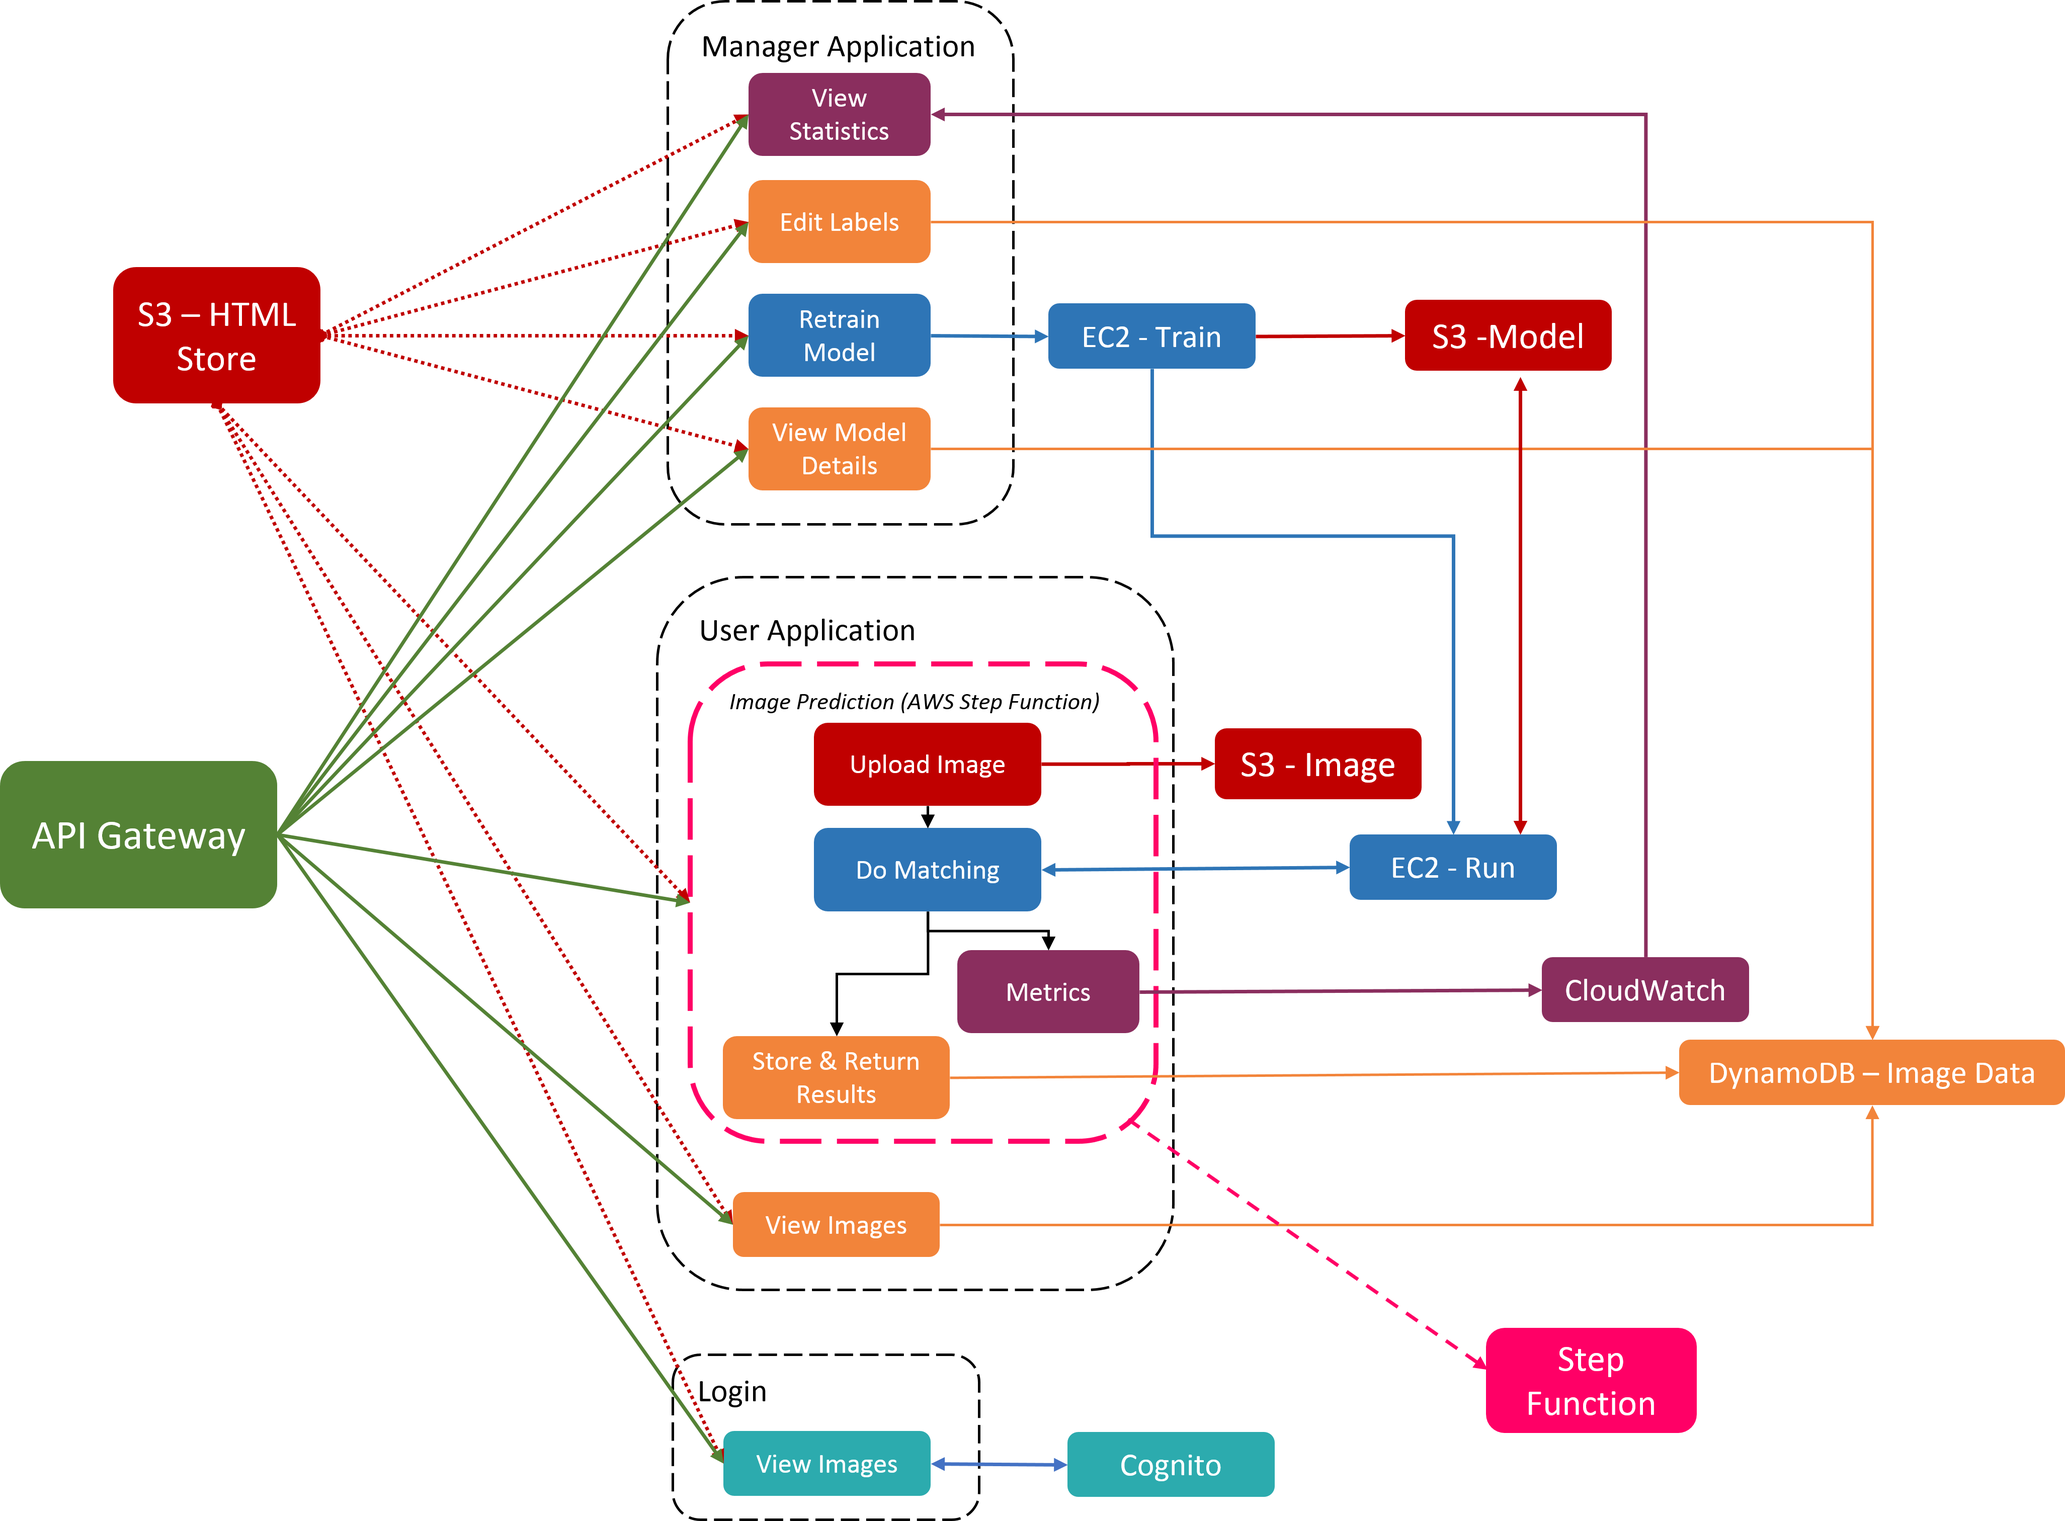
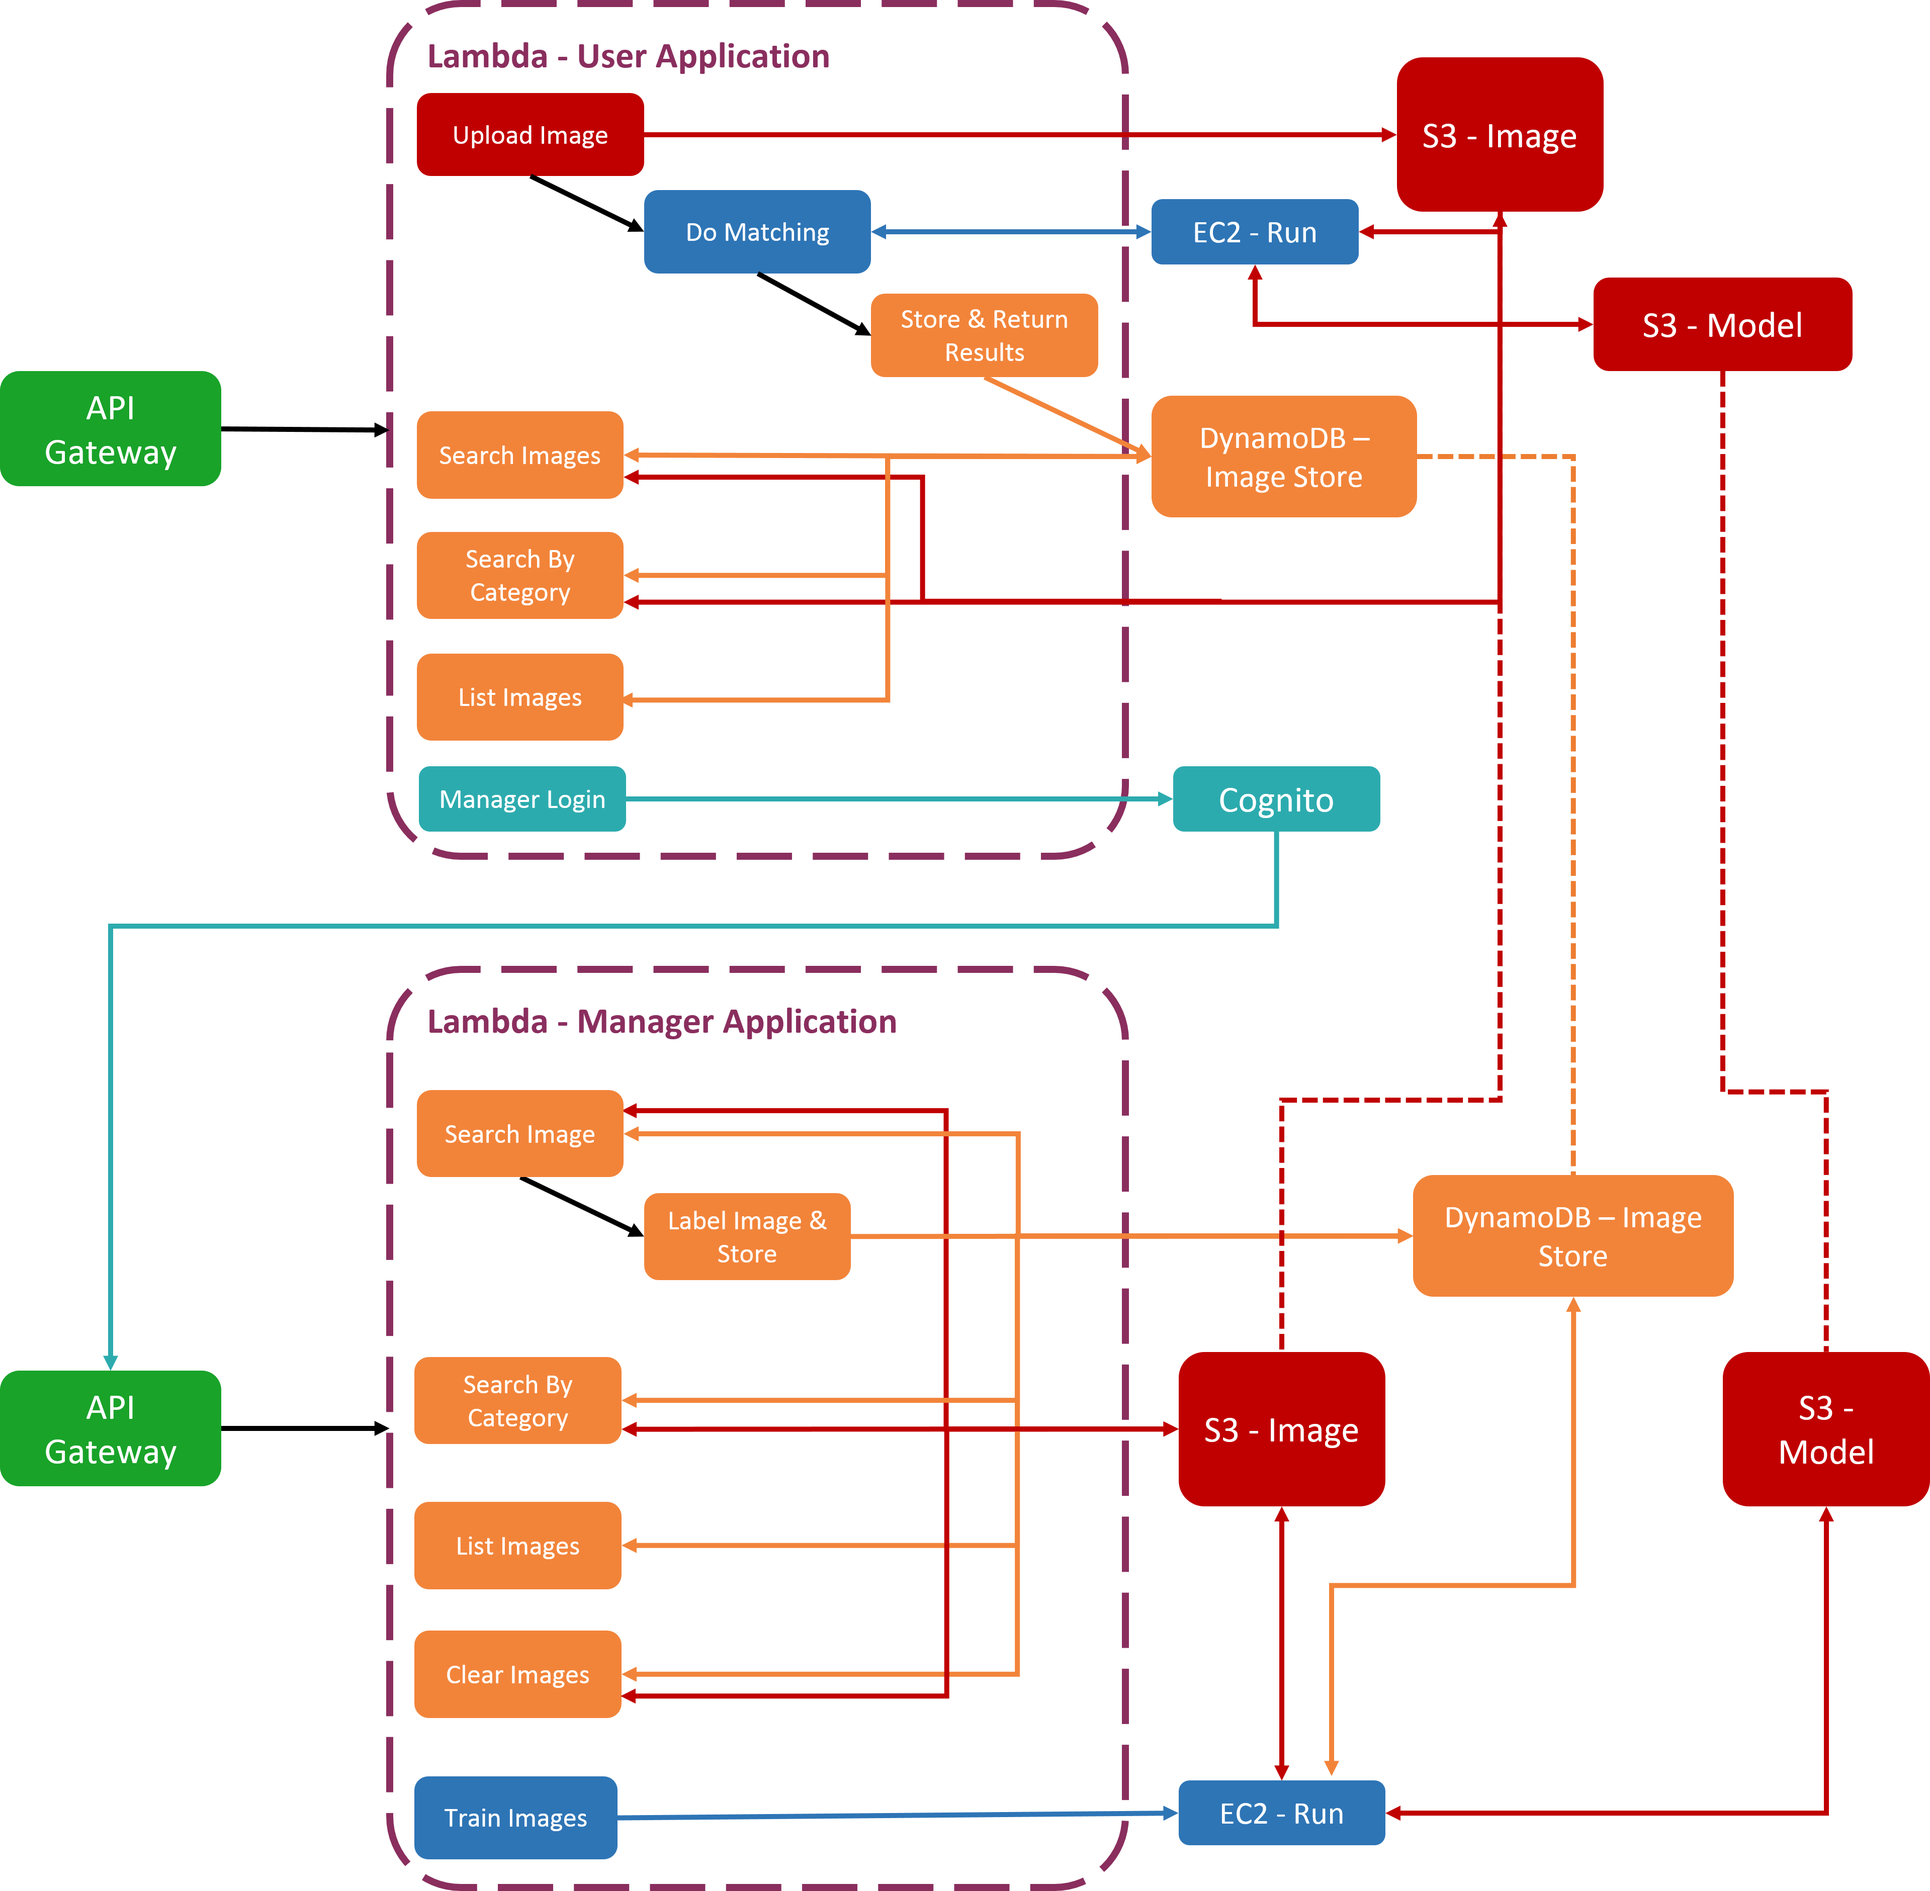
Josh dev (#5)
* search-page

* add category search

* connect EC2

* Update utils.py

* cleanup

* css

* login change

* adding ec2

* cleanup

diff --git a/frontend/templates/list_images.html b/frontend/templates/list_images.html
@@ -11,7 +11,7 @@
         {% if image_list is defined %}
 	        <table>
             <caption><h1>List of Images Stored</h1></caption>
-            <tr><th>Index</th><th>Image Id</th><th>Predicted Label</th><th>Actual Label</th></tr>
+            <tr><th>Image Id</th><th>Index</th><th>Predicted Label</th><th>Actual Label</th></tr>
 	        {% for image in image_list %}
                 <tr>
                     <td style="font-weight:600">{{ image['key'] }}</td>

diff --git a/frontend/utils.py b/frontend/utils.py
@@ -122,7 +122,9 @@ def read_all():
 
 def get_ec2_ip():
     global EC2_RUN_ID
+    
     response = ec2.describe_instances(InstanceIds=[EC2_RUN_ID], DryRun=False)
+    print(response)
     inst_name = response['Reservations'][0]['Instances'][0]['State']['Name']
     ec2_ip = None       
     if (inst_name == 'running'):

diff --git a/frontend/routes.py b/frontend/routes.py
@@ -12,6 +12,7 @@ def add_key():
     POST: Pass in key from form to add to DB and file system
     """
     global EC2_RUN_IP
+    EC2_RUN_IP = get_ec2_ip()
     if request.method == 'POST':
         key = request.form.get('key')
         status = upload_image(request, key)

diff --git a/ec2_run/main.py b/ec2_run/main.py
@@ -111,6 +111,7 @@ def thread_model_check():
             print('New Model')
             model = load_s3_model()
             MODEL_METRICS = data
+            old_key = MODEL_METRICS['key']
             
         time.sleep(60)
 
